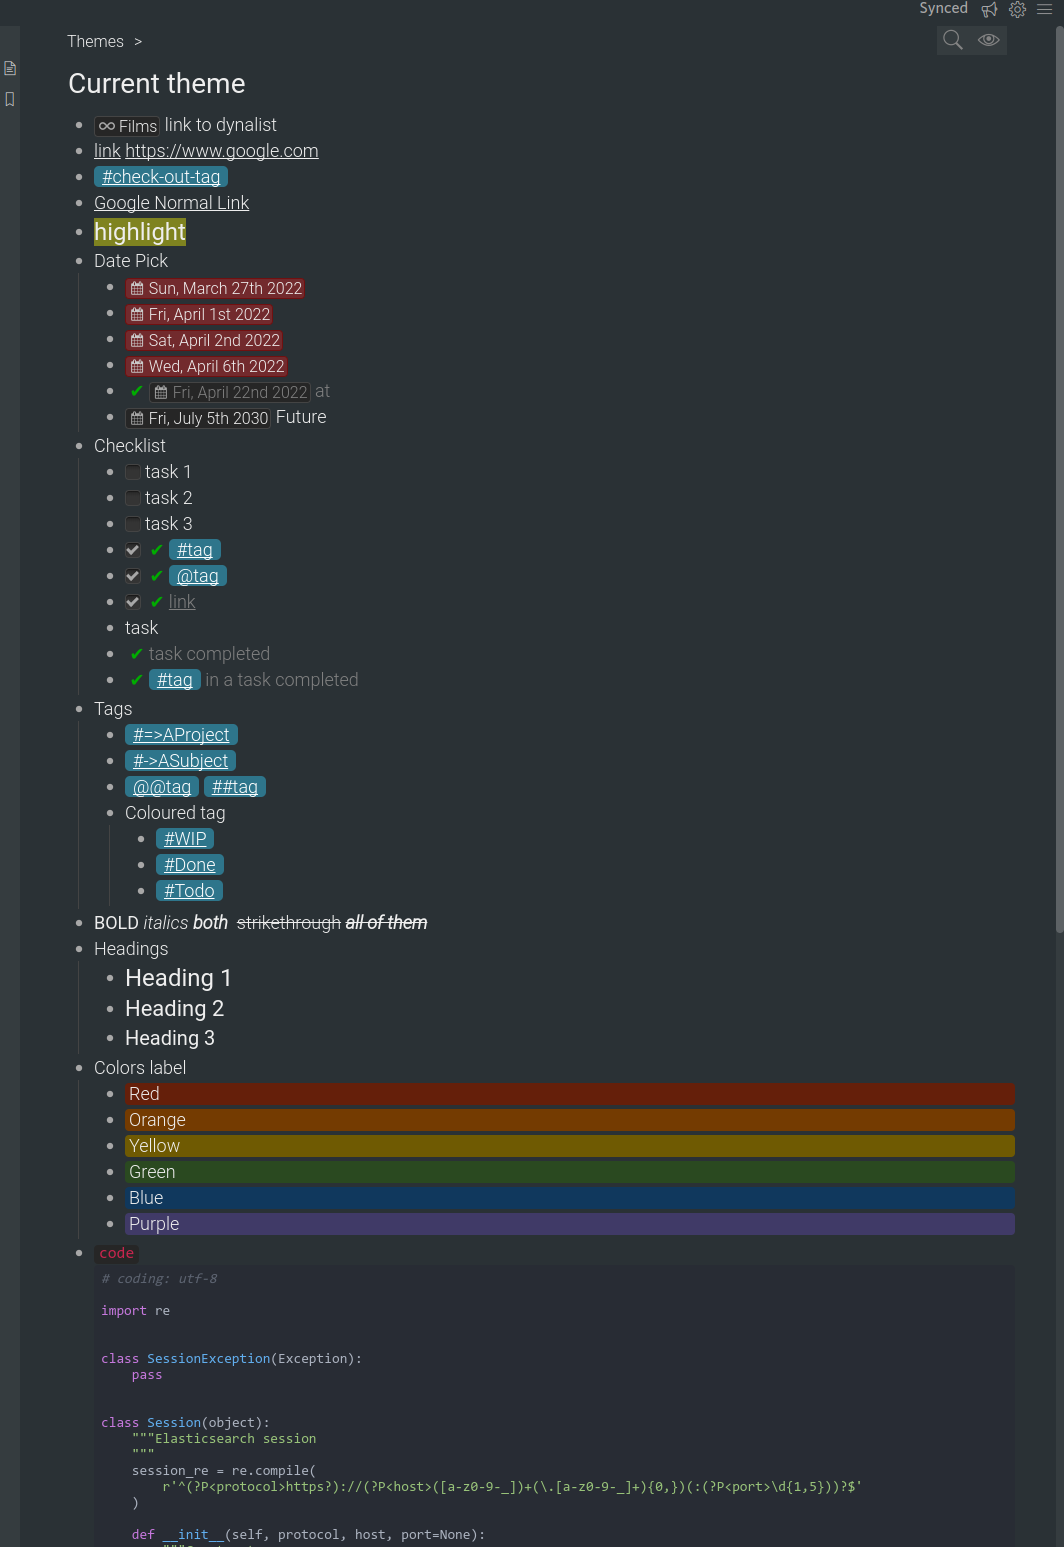
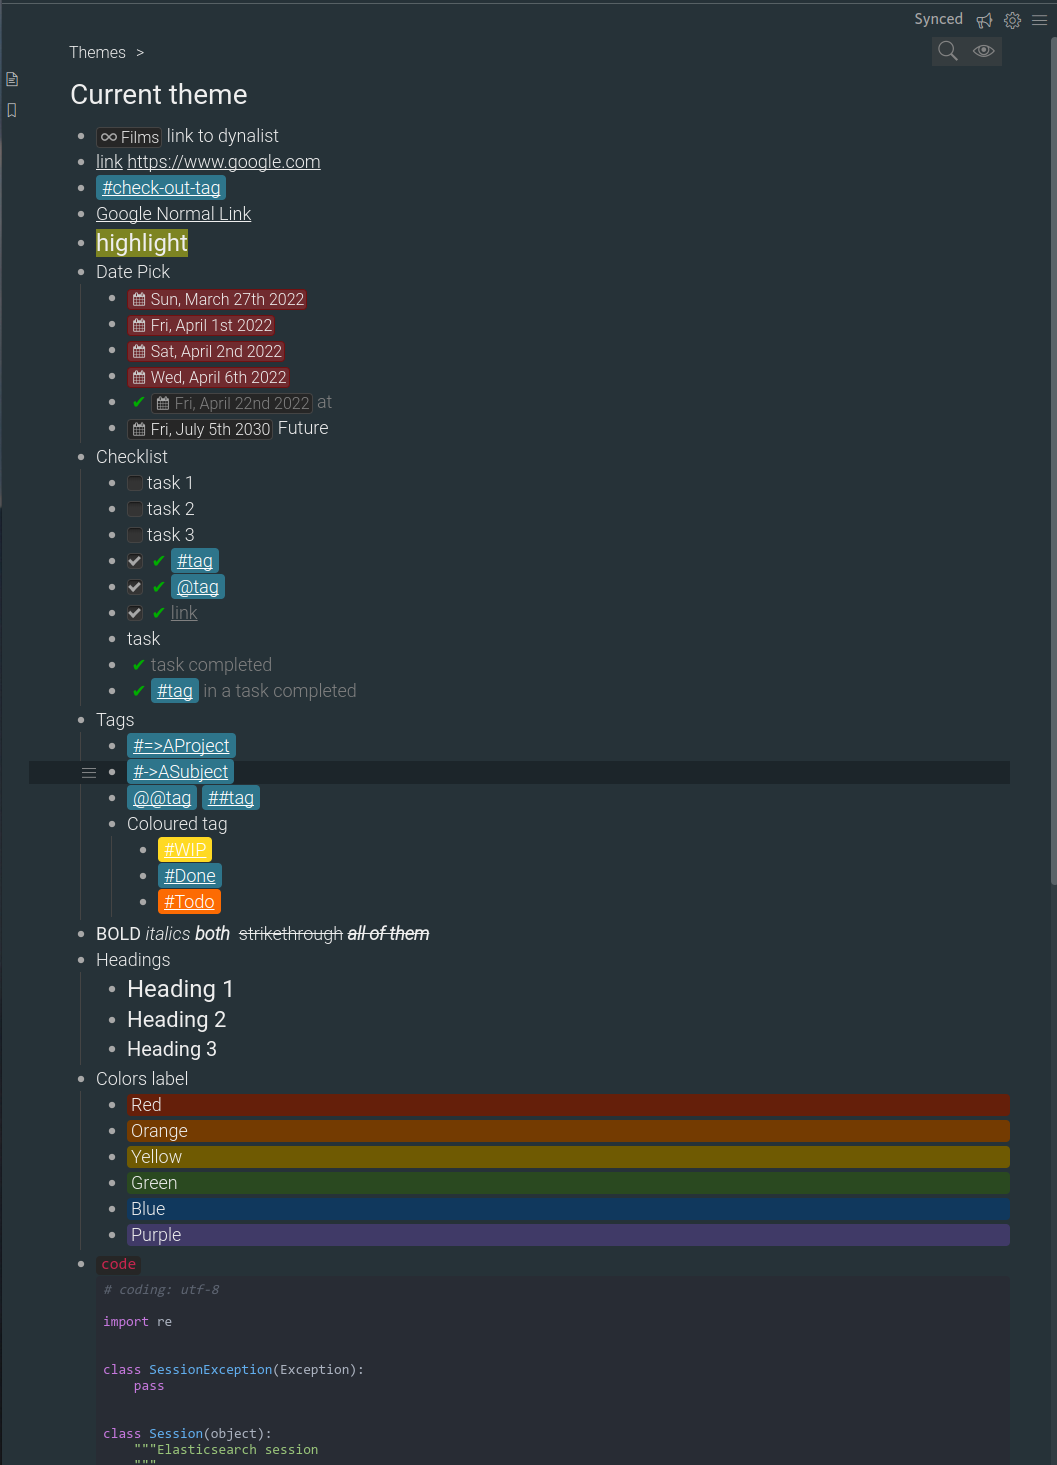
Customize css color

Changed region(s): [[0.0624, 0.0, 0.9678, 1.0], [0.8742, 0.0, 1.0, 0.0307], [0.0, 0.0307, 0.0312, 0.0922]]

diff --git a/day-dark.css b/day-dark.css
@@ -1,4 +1,31 @@
+:root {
+    --selection-bg-color: #3a5760;
 
+    --document-bg-color: #263238;
+    --item-selected-bg-color: #1c252a;
+
+    --completed-text-color: grey;
+    --completed-ckeck-icon-color: #00AC00;
+
+    --tag-bg-color: #2e758b;
+    --tag-text-color: #FFF;
+
+    --tag-todo-bg-color: #fc6b03;
+    --tag-wip-bg-color: #FFD923;
+
+}
+
+::selection {
+  background: var(--selection-bg-color);
+}
+::-moz-selection {
+  background: var(--selection-bg-color);
+}
+
+
+.Suggestions-item.is-current, .Suggestions-dropdownLoadAll:hover {
+    background: var(--selection-bg-color);
+}
 
 .u-use-pref-font{
   font-family: Roboto,  sans-serif;
@@ -7,22 +34,22 @@
 
 /* dynalist */
 .AppHeader, .AppContainer {
-    background-color: rgb(42, 49, 53);
+    background-color: var(--document-bg-color);
     box-shadow: none;
 }
 
 .pane-item-header.selected {
-    background: rgb(42, 49, 53);
+    background: var(--document-bg-color);
 }
 
+/* Left pane  */
 .is-desktop .LeftPaneContainer,
 .is-desktop .LeftPaneContainer-nav,
 .is-desktop .Pane,
 .is-desktop .Pane-header,
 .is-desktop .popup-message-banner,
 .is-desktop .LeftPaneContainer-navItem {
-    background-color: rgb(53, 60, 63);
-    /*box-shadow: none; */
+    background: var(--document-bg-color);
 }
 
 .is-desktop .LeftPaneSlidebarContainer {
@@ -31,7 +58,6 @@
 
 .LeftPaneSlidebarContainer {
     top: 0;
-    /* z-index: 1000;*/
 }
 
 .LeftPaneContaine-nav {
@@ -39,11 +65,17 @@
 }
 
 .finder-result.is-selected {
-    background: #3a5760;
+    background: var(--selection-bg-color);
+}
+
+/* Document Nodes */
+/* Node hover cursor */
+.Node-self.is-hovering {
+    background-color: var(--item-selected-bg-color);
 }
 
 .Node.is-selected {
-  background: #3a5760;
+  background: var(--item-selected-bg-color);
 }
 
 .DocumentBreadcrumb {
@@ -80,33 +112,29 @@ input:focus, textarea:focus, select:focus, input:hover, textarea:hover, select:h
 
 /* tags */
 .DocumentContainer.has-tagBackground .node-tag {
-    background-color:  #2e758b;
-    color: white;
-    border-radius: 5px;
+    background-color:  var(--tag-bg-color);
+    color: var(--tag-text-color);
     box-sizing: border-box;
-    padding: 0px 8px;
-
-}
-
-a.node-tag[title="Filter #Jira"] {
-    background-color:  #354a6c;
-    color: white;
-    padding: 2px;
+    padding: 2px 6px;
     border-radius: 4px;
 }
 
+.DocumentContainer.has-tagBackground .node-tag[title="Filter #Todo"] {
+    background-color: var(--tag-todo-bg-color);
+}
+
 .DocumentContainer.has-tagBackground a.node-tag[title="Filter #WIP"] {
-    background-color: 1px solid #6F5A02;
+    background-color: var(--tag-wip-bg-color);
 }
 
 /* Tasks */
 .Node.is-checked > .Node-self .Node-content, .Node.is-checked > .Node-self .Node-renderedContent {
     text-decoration: none;
-    color: grey;
+    color: var(--completed-text-color);
 }
 
 /* Tasks completed*/
 .Node.is-checked > .Node-self .Node-renderedContent::before {
   content: ' ✔ ';
-  color: #00AC00;
+  color: var(--completed-ckeck-icon-color);
 }
